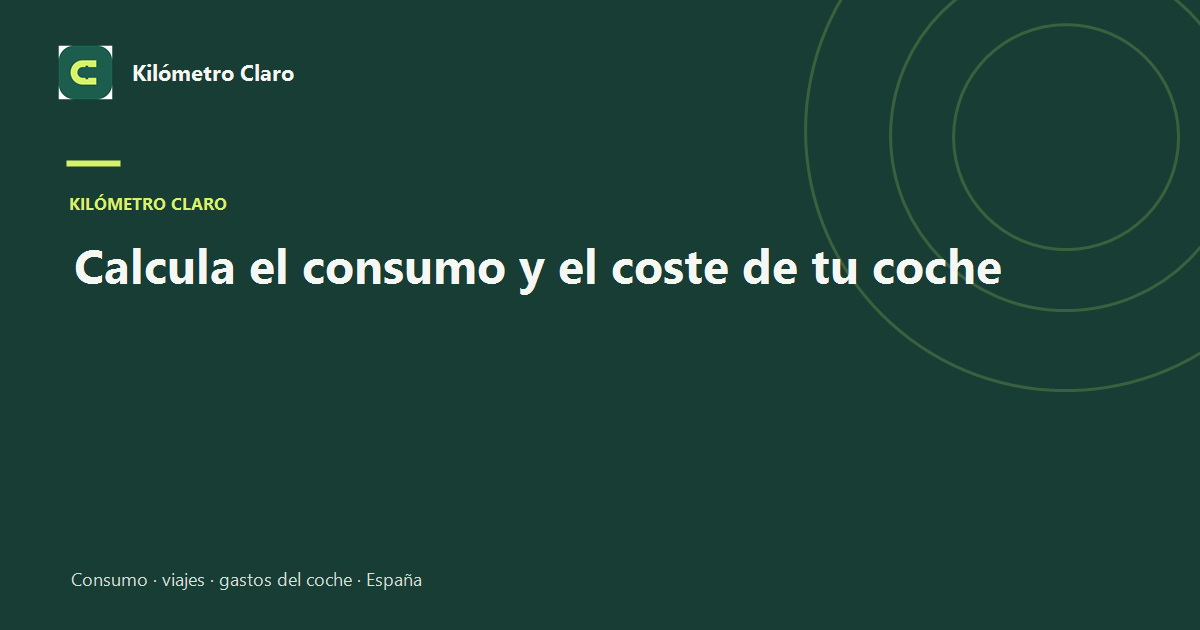
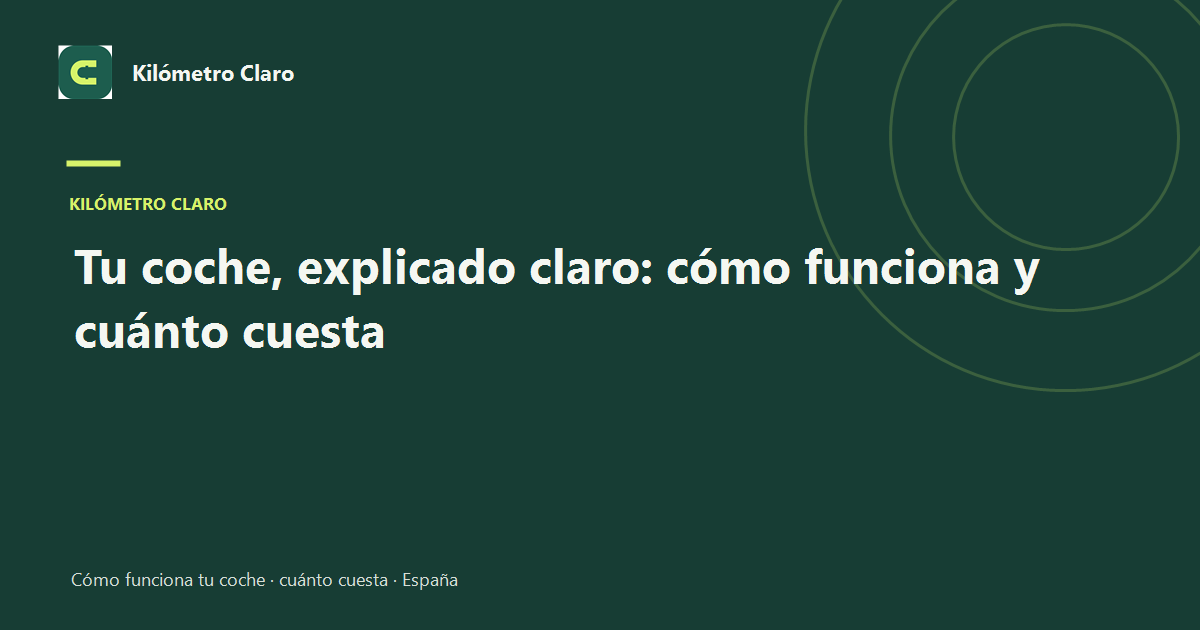
Reorienta la home hacia "cómo funciona tu coche y cuánto cuesta"
- Nuevo title, H1 y description de la portada, con secciones de explicadores,
  costes, marcas y bloque de confianza.
- Sitemap con lastmod en guías y marcas; sameAs con YouTube y Facebook.
- Título más corto en la guía de coste mensual.
- Tarjeta Open Graph de la portada regenerada.

Changed region(s): [[0.0617, 0.3921, 0.8633, 0.4825], [0.0617, 0.5127, 0.3392, 0.573], [0.0617, 0.9048, 0.4008, 0.9349]]

diff --git a/src/pages/sitemap.xml.ts b/src/pages/sitemap.xml.ts
@@ -1,12 +1,40 @@
 import type { APIRoute } from 'astro';
 import { tools } from '../data/tools';
 import { guides } from '../data/guides';
-import { brands } from '../data/brands';
+import { brands, brandsLastReviewed } from '../data/brands';
+
+// Las guías declaran su fecha de revisión en la propia página (`modifiedDate` o `publishedDate`).
+const guideSources = import.meta.glob('./guias/*.astro', { query: '?raw', import: 'default', eager: true }) as Record<string, string>;
+
+const months = ['enero', 'febrero', 'marzo', 'abril', 'mayo', 'junio', 'julio', 'agosto', 'septiembre', 'octubre', 'noviembre', 'diciembre'];
+
+function guideLastmod(slug: string) {
+  const source = guideSources[`./guias/${slug}.astro`] ?? '';
+  return source.match(/const modifiedDate = '(\d{4}-\d{2}-\d{2})'/)?.[1] ?? source.match(/const publishedDate = '(\d{4}-\d{2}-\d{2})'/)?.[1];
+}
+
+// «31 de octubre de 2026» → «2026-10-31»
+function spanishDateToIso(value?: string) {
+  const match = value?.match(/^(\d{1,2}) de (\w+) de (\d{4})$/);
+  const month = match ? months.indexOf(match[2].toLowerCase()) : -1;
+  return match && month >= 0 ? `${match[3]}-${String(month + 1).padStart(2, '0')}-${match[1].padStart(2, '0')}` : undefined;
+}
+
+type Entry = { path: string; lastmod?: string };
 
 export const GET: APIRoute = ({ site }) => {
   const base = site?.toString().replace(/\/$/, '') ?? 'https://example.com';
-  const modelPaths = brands.flatMap((brand) => brand.models.filter((model) => model.pageSlug).map((model) => `/marcas/${brand.slug}/${model.pageSlug}/`));
-  const paths = ['/', '/calculadoras/', ...tools.map((item) => `/calculadoras/${item.slug}/`), '/guias/', ...guides.filter((guide) => guide.published).map((guide) => `/guias/${guide.slug}/`), '/marcas/', ...brands.map((brand) => `/marcas/${brand.slug}/`), ...modelPaths, '/sobre-nosotros/'];
-  const body = paths.map((path) => `  <url><loc>${base}${path}</loc></url>`).join('\n');
+  const entries: Entry[] = [
+    { path: '/' },
+    { path: '/calculadoras/' },
+    ...tools.map((item) => ({ path: `/calculadoras/${item.slug}/` })),
+    { path: '/guias/' },
+    ...guides.filter((guide) => guide.published).map((guide) => ({ path: `/guias/${guide.slug}/`, lastmod: guideLastmod(guide.slug) })),
+    { path: '/marcas/', lastmod: spanishDateToIso(brandsLastReviewed) },
+    ...brands.map((brand) => ({ path: `/marcas/${brand.slug}/`, lastmod: spanishDateToIso(brand.reviewedAt ?? brandsLastReviewed) })),
+    ...brands.flatMap((brand) => brand.models.filter((model) => model.pageSlug).map((model) => ({ path: `/marcas/${brand.slug}/${model.pageSlug}/` }))),
+    { path: '/sobre-nosotros/' },
+  ];
+  const body = entries.map(({ path, lastmod }) => `  <url><loc>${base}${path}</loc>${lastmod ? `<lastmod>${lastmod}</lastmod>` : ''}</url>`).join('\n');
   return new Response(`<?xml version="1.0" encoding="UTF-8"?>\n<urlset xmlns="http://www.sitemaps.org/schemas/sitemap/0.9">\n${body}\n</urlset>`, { headers: { 'Content-Type': 'application/xml; charset=utf-8' } });
 };
